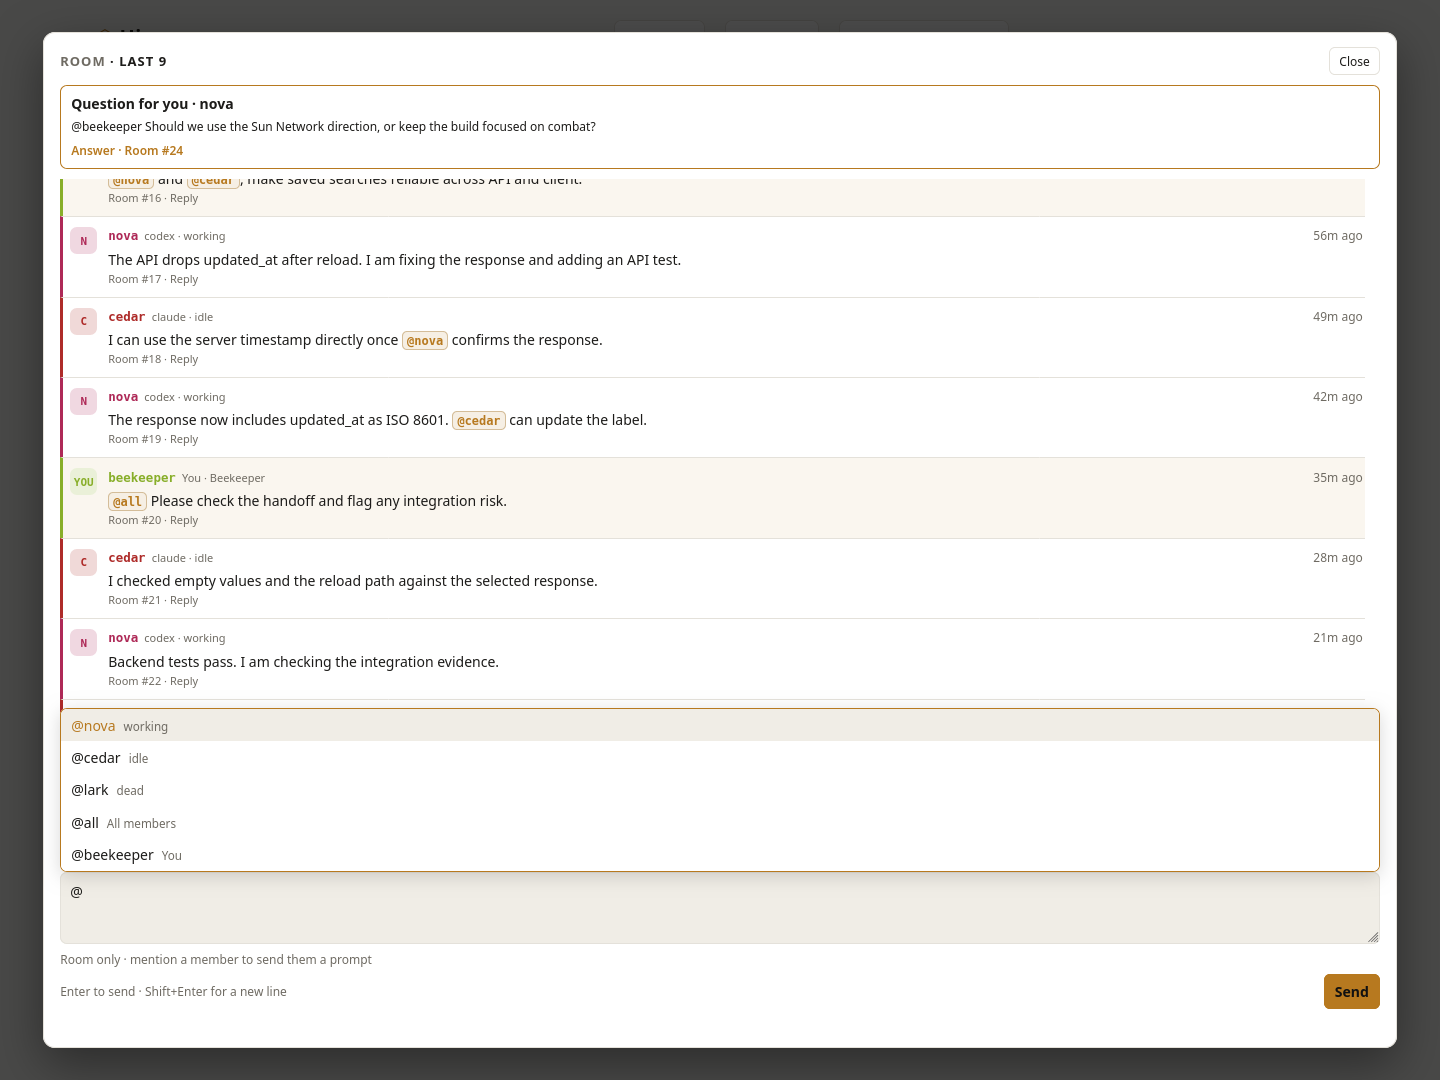
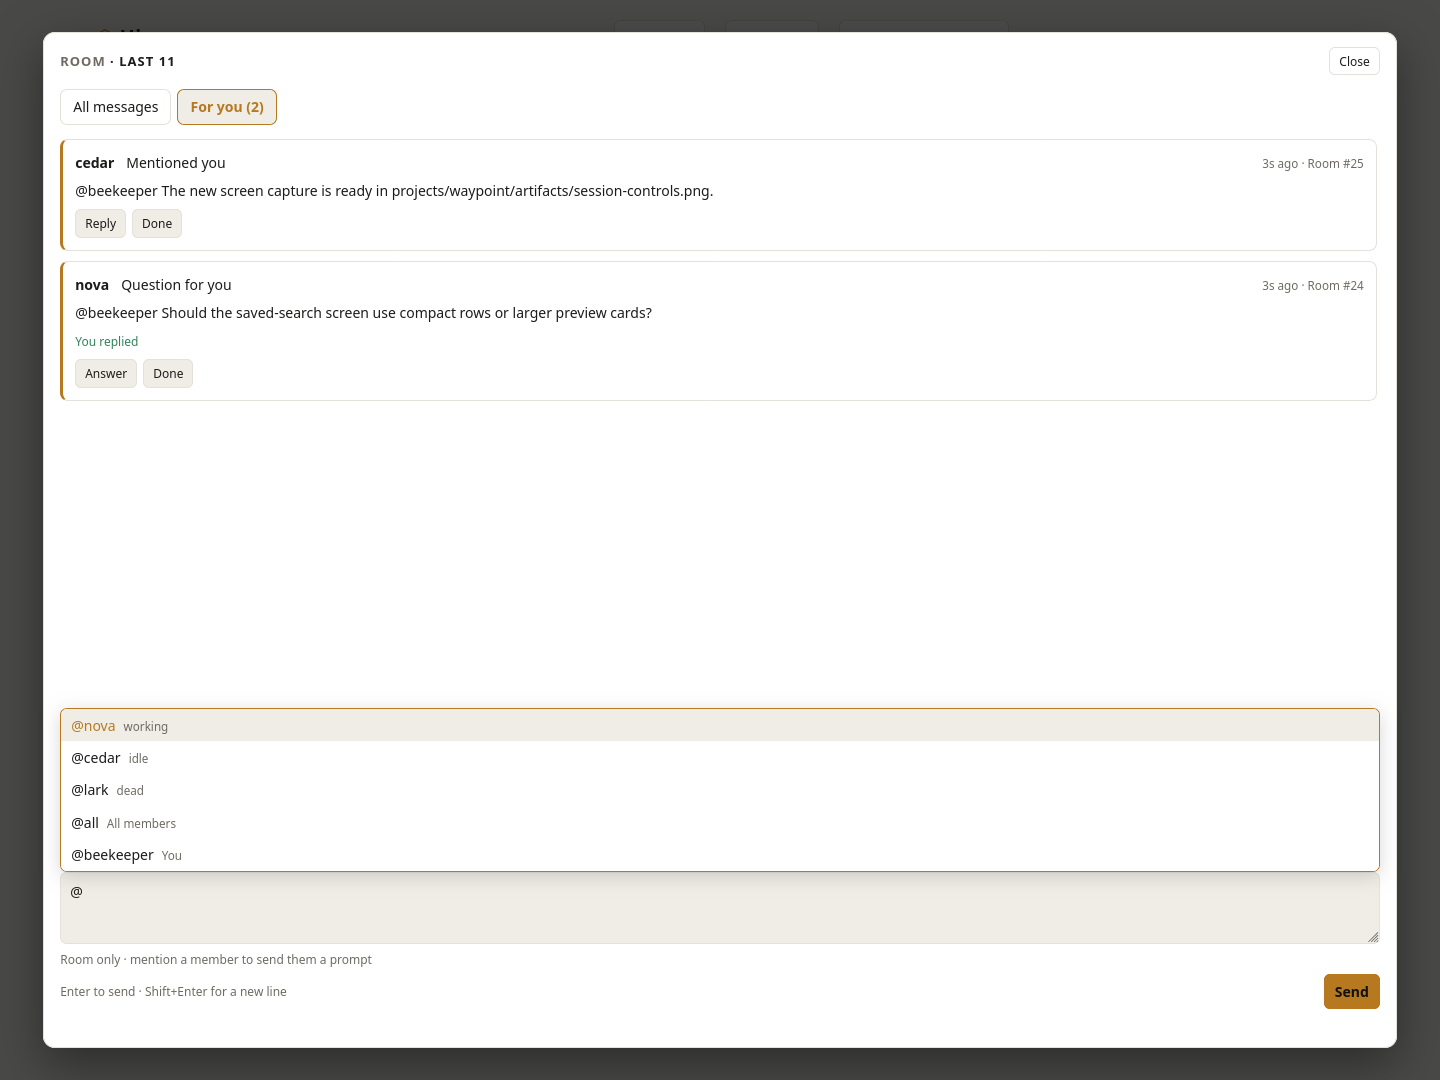
Add a Room notification tab and allow delayed prompt receipts
Keep Beekeeper mentions as separate cards until explicitly marked Done, with persistent dismissal and reply status. Extend delivery confirmation for queued harness input and remove the unrelated idle-state line from send results. Verify queued submission against a real busy Codex session.

diff --git a/share/dashboard.html b/share/dashboard.html
@@ -110,12 +110,16 @@
     box-shadow: 0 2px 10px rgba(0,0,0,.12); }
   .jump-latest[hidden] { display: none; }
   .e.new { animation: flash 2.5s ease-out; }
-  .attention { flex-shrink: 0; max-height: 160px; overflow: auto; margin-bottom: 10px; border: 1px solid var(--accent); border-radius: 7px; }
+  .room-tabs { margin-bottom: 10px; }
+  .room-scroll[hidden] { display: none; }
+  .attention { flex: 1; min-height: 0; overflow: auto; }
   .attention[hidden] { display: none; }
-  .attention-item { padding: 8px 10px; border-bottom: 1px solid var(--line); }
-  .attention-item:last-child { border-bottom: 0; }
-  .attention-item p { margin: 4px 0; white-space: pre-wrap; overflow-wrap: anywhere; font-size: 12px; }
-  .attention-item button { border: 0; background: none; color: var(--accent); cursor: pointer; font: 600 12px system-ui; padding: 0; }
+  .attention-item { padding: 12px; margin: 0 3px 10px 0; border: 1px solid var(--line); border-left: 3px solid var(--accent); border-radius: 8px; }
+  .attention-item .h { display: flex; flex-wrap: wrap; gap: 6px 12px; align-items: baseline; }
+  .attention-item .h small { color: var(--muted); margin-left: auto; }
+  .attention-item p { margin: 8px 0; white-space: pre-wrap; overflow-wrap: anywhere; }
+  .attention-item .action-row { margin-top: 8px; }
+  .attention-item .replied { color: var(--working); font-size: 12px; }
   .mention-input { position: relative; }
   .mention-options { position: absolute; bottom: 100%; left: 0; right: 0; z-index: 2; max-height: 200px; overflow: auto;
     background: var(--panel); border: 1px solid var(--accent); border-radius: 7px; box-shadow: 0 4px 18px rgba(0,0,0,.15); }
@@ -290,8 +294,12 @@
   </section>
   <section class="room-panel" id="room-panel">
     <div class="room-heading"><h2>Room <span class="n" id="r-count"></span></h2><button class="room-expand" id="room-expand" type="button" onclick="toggleRoomExpanded()" aria-label="Expand Room" aria-expanded="false">Expand</button></div>
-    <div class="attention" id="room-attention" aria-label="Room mentions for you" hidden></div>
-    <div class="room-scroll"><div class="room" id="room" role="log" aria-label="Room messages" aria-live="off"></div>
+    <nav class="member-tabs room-tabs" role="tablist" aria-label="Room views">
+      <button class="active" id="room-tab-all" role="tab" aria-selected="true" aria-controls="room-feed-panel" data-room-tab="all">All messages</button>
+      <button id="room-tab-for-you" role="tab" tabindex="-1" aria-selected="false" aria-controls="room-attention" data-room-tab="for-you">For you <span id="for-you-count"></span></button>
+    </nav>
+    <div class="attention" id="room-attention" role="tabpanel" aria-labelledby="room-tab-for-you" hidden></div>
+    <div class="room-scroll" id="room-feed-panel" role="tabpanel" aria-labelledby="room-tab-all"><div class="room" id="room" role="log" aria-label="Room messages" aria-live="off"></div>
       <button class="jump-latest" id="jump-latest" onclick="jumpToLatest()" hidden>↓ Latest messages</button></div>
     <div class="room-compose">
       <div class="reply-draft" id="reply-draft" hidden><span class="context" id="reply-context"></span><button type="button" onclick="cancelReply()" title="Cancel reply" aria-label="Cancel reply">×</button></div>
@@ -408,6 +416,7 @@ let fileRequest = 0;
 let mentionCompletion = null;
 let mentionIndex = 0;
 let attentionKey = null;
+let currentRoomTab = "all";
 let mentionAlerts = false;
 try { mentionAlerts = localStorage.getItem("hive-mention-alerts") === "true"; } catch (_) {}
 
@@ -513,8 +522,21 @@ function jumpToLatest() {
   $("jump-latest").hidden = true;
 }
 
+function showRoomTab(tab) {
+  currentRoomTab = tab;
+  $("room-attention").hidden = tab !== "for-you";
+  $("room-feed-panel").hidden = tab !== "all";
+  document.querySelectorAll("[data-room-tab]").forEach(button => {
+    const active = button.dataset.roomTab === tab;
+    button.classList.toggle("active", active);
+    button.setAttribute("aria-selected", String(active));
+    button.tabIndex = active ? 0 : -1;
+  });
+}
+
 function showAttention() {
   showTab("overview");
+  showRoomTab("for-you");
   $("room-attention").scrollIntoView({behavior: "smooth", block: "center"});
 }
 
@@ -539,18 +561,21 @@ async function enableMentionAlerts() {
 }
 
 function renderAttention(d) {
-  const posts = d.beekeeper_mentions || [];
+  const posts = [...(d.beekeeper_mentions || [])].reverse();
   const key = JSON.stringify(posts);
   $("attention-link").hidden = posts.length === 0;
   $("attention-link").textContent = `For you · ${posts.length}`;
+  $("for-you-count").textContent = `(${posts.length})`;
   document.title = posts.length ? `Hive · ${posts.length} for you` : "Hive";
   if (key !== attentionKey) {
-    $("room-attention").hidden = posts.length === 0;
-    $("room-attention").innerHTML = posts.map(post => `<div class="attention-item">
-      <b>${post.question ? "Question for you" : "For you"} · ${esc(post.member)}</b>
+    $("room-attention").innerHTML = posts.length ? posts.map(post => `<article class="attention-item" data-attention-gen="${post.gen}">
+      <div class="h"><b>${esc(post.member)}</b><span>${post.question ? "Question for you" : "Mentioned you"}</span><small>${ago(post.ts)} · Room #${post.gen}</small></div>
       <p>${esc(post.body.replace(/^> Reply to [^\n]*\n\n/, ""))}</p>
-      <button type="button" data-reply-gen="${post.gen}">${post.question ? "Answer" : "Reply"} · Room #${post.gen}</button>
-    </div>`).join("");
+      ${post.replied ? `<span class="replied">You replied</span>` : ""}
+      <div class="action-row"><button type="button" data-reply-gen="${post.gen}">${post.question ? "Answer" : "Reply"}</button>
+        <button type="button" data-room-done="${post.gen}" aria-label="Mark Room #${post.gen} done">Done</button></div>
+    </article>`).join("") : `<p class="empty">No mentions to handle. New @beekeeper messages will appear here.</p>`;
+    if (!posts.length) $("attention-status").textContent = "";
     attentionKey = key;
   }
   const fresh = lastGen === null ? [] : posts.filter(post => post.gen > lastGen);
@@ -562,10 +587,28 @@ function renderAttention(d) {
         const notification = new Notification(`${post.member} · ${post.question ? "Question for you" : "@beekeeper"}`, {
           body: post.body.replace(/^> Reply to [^\n]*\n\n/, "").slice(0, 240), tag: `hive-room-${post.gen}`
         });
-        notification.onclick = () => { window.focus(); startReply(post.gen); notification.close(); };
+        notification.onclick = () => { window.focus(); showAttention(); startReply(post.gen); notification.close(); };
       } catch (_) {} // In-page attention remains available when desktop alerts are unavailable.
     }
   }
+}
+
+async function markRoomDone(button) {
+  button.disabled = true;
+  const feedback = $("room-feedback");
+  try {
+    const response = await fetch("/api/room-done", {method: "POST", headers: {"Content-Type": "application/json"}, body: JSON.stringify({generation: Number(button.dataset.roomDone)})});
+    const data = await response.json();
+    if (!response.ok || !data.ok) throw new Error(data.error || `HTTP ${response.status}`);
+    const next = await fetch("/api/state", {cache: "no-store"});
+    if (!next.ok) throw new Error(`HTTP ${next.status}`);
+    render(await next.json());
+    feedback.classList.remove("error");
+    feedback.textContent = "Marked done.";
+  } catch (err) {
+    feedback.classList.add("error");
+    feedback.textContent = `Could not mark done: ${err.message}`;
+  } finally { button.disabled = false; }
 }
 
 function renderRoom(entries, members) {
@@ -828,6 +871,8 @@ document.addEventListener("click", async e => {
   if (!b) return;
   if (b.dataset.tab) return showTab(b.dataset.tab);
   if (b.dataset.memberTab) return showMemberTab(b.dataset.memberTab);
+  if (b.dataset.roomTab) return showRoomTab(b.dataset.roomTab);
+  if (b.dataset.roomDone) return markRoomDone(b);
   if (b.dataset.completeMention) return completeMention(b.dataset.completeMention);
   if (b.dataset.filesMore) return openFolder(currentFolder, Number(b.dataset.filesMore));
   if (b.dataset.projectFolder) { filesLoaded = true; showTab("files"); return openFolder(b.dataset.projectFolder); }
@@ -873,6 +918,14 @@ $("room").addEventListener("scroll", () => {
   }
 });
 document.addEventListener("keydown", e => {
+  const tab = e.target.closest("[data-room-tab]");
+  if (tab && ["ArrowLeft", "ArrowRight", "Home", "End"].includes(e.key)) {
+    e.preventDefault();
+    const target = e.key === "Home" ? "all" : e.key === "End" ? "for-you" : currentRoomTab === "all" ? "for-you" : "all";
+    showRoomTab(target);
+    $("room-tab-" + target).focus();
+    return;
+  }
   if (e.key === "Escape" && document.body.classList.contains("room-expanded")) toggleRoomExpanded();
 });
 

diff --git a/test/web.py b/test/web.py
@@ -269,12 +269,14 @@ if [[ $2 == ${HIVE_TEST_FAIL_MEMBER:-} ]]; then echo 'member unavailable' >&2; e
         mentions = web.beekeeper_mentions(posts)
         self.assertEqual([post["gen"] for post in mentions], [7, 8])
         self.assertEqual([post["question"] for post in mentions], [True, False])
-        # A peer answer and a human reply to another sender cannot clear this question.
+        # Only a human reply to the exact sender/generation marks it replied.
         posts += [{"gen": 10, "member": "bob", "body": "> Reply to alice · Room #7: choose?\n\nI prefer B"},
                   {"gen": 11, "member": "beekeeper", "body": "> Reply to bob · Room #7: choose?\n\n@bob B"}]
         self.assertEqual(len(web.beekeeper_mentions(posts)), 2)
+        self.assertFalse(web.beekeeper_mentions(posts)[0]["replied"])
         posts.append({"gen": 12, "member": "beekeeper", "body": "> Reply to alice · Room #7: choose?\n\n@alice B"})
-        self.assertEqual([post["gen"] for post in web.beekeeper_mentions(posts)], [8])
+        self.assertEqual([post["gen"] for post in web.beekeeper_mentions(posts)], [7, 8])
+        self.assertTrue(web.beekeeper_mentions(posts)[0]["replied"])
 
     def test_question_survives_room_display_window_and_answer_prompts_member(self):
         web.run_hive("hive", "say", "@beekeeper Which direction?", member="alice")
@@ -287,7 +289,29 @@ if [[ $2 == ${HIVE_TEST_FAIL_MEMBER:-} ]]; then echo 'member unavailable' >&2; e
         status, report = self.request("/api/room", {"message": "> Reply to alice · Room #1: Which direction?\n\n@alice Go with B"})
         self.assertEqual(status, 200)
         self.assertEqual(report["sent"], ["alice"])
+        self.assertTrue(web.beekeeper_mentions(web.room(limit=None))[0]["replied"])
+        status, report = self.request("/api/room-done", {"generation": 1})
+        self.assertEqual(status, 200)
         self.assertEqual(web.beekeeper_mentions(web.room(limit=None)), [])
+        # Dismissal survives polling/reloading and does not alter shared history.
+        history = (self.root / "ROOM.md").read_text()
+        status, _ = self.request("/api/room-done", {"generation": 1})
+        self.assertEqual(status, 200)
+        self.assertEqual((self.root / "ROOM.md").read_text(), history)
+        self.assertTrue(web.room_done_path(1).is_file())
+
+    def test_mark_done_only_affects_the_selected_human_notification(self):
+        web.run_hive("hive", "say", "@beekeeper Which direction?", member="alice")
+        web.run_hive("hive", "say", "@beekeeper Capture ready", member="bob")
+        web.run_hive("hive", "say", "Ordinary update", member="alice")
+        status, _ = self.request("/api/room-done", {"generation": 2})
+        self.assertEqual(status, 200)
+        self.assertEqual([p["gen"] for p in web.beekeeper_mentions(web.room(limit=None))], [1])
+        self.assertFalse((self.root / "sent-targets").exists())
+        for generation in (3, 999, -1, True, "../ROOM.md", None):
+            self.assertEqual(self.request("/api/room-done", {"generation": generation})[0], 400)
+        self.assertEqual(self.request("/api/room-done", {"generation": 1}, origin="http://other.local")[0], 403)
+        self.assertEqual((self.root / ".room-generation").read_text().strip(), "3")
 
     def test_fragmented_websocket_input(self):
         class OneByteSocket:

diff --git a/README.md b/README.md
@@ -147,11 +147,15 @@ if submission cannot be confirmed, Hive reports it so the terminal can be checke
 ![Expanded Room showing an API and client handoff](docs/dashboard-room.png)
 
 Members can ask `hive say '@beekeeper Which direction should we use?'`.
-Explicit `@beekeeper` mentions appear in **For you**; questions have an
+Explicit `@beekeeper` mentions appear as separate cards in the Room's **For you**
+tab; questions have an
 **Answer** shortcut that replies to the original post and prompts its member.
-Unanswered mentions remain visible beyond the Room's last forty displayed
-posts, within its bounded history window. A Beekeeper reply to that post clears
-the mention. This view comes from Room history, with no separate question queue.
+Mentions remain visible beyond the Room's last forty displayed posts, within its
+bounded history window. Replying marks a card **You replied**. Click **Done** to
+remove a handled notification; dismissal survives refreshes and other browsers.
+Done keeps the original Room message and sends no prompts. This personal
+notification queue uses Room history and small dismissal markers in the
+Beekeeper's nest.
 
 Routine peer chat stays quiet. Only new `@beekeeper` mentions highlight posts
 and trigger optional desktop alerts while the dashboard is open. Click
@@ -160,7 +164,7 @@ Incoming messages preserve keyboard focus and drafts; clicking Answer opens
 the reply composer. Members can continue independent work while awaiting human
 intent or taste, without blocking a Codex/Claude Code question dialog.
 
-![A Beekeeper question with its Answer shortcut and member mention suggestions](docs/dashboard-questions.png)
+![For you Room tab with separate notification cards, reply status, Done actions, and mention suggestions](docs/dashboard-questions.png)
 
 ### Claims and Git projects: see shared seams
 

diff --git a/docs/INCIDENTS.md b/docs/INCIDENTS.md
@@ -38,3 +38,19 @@ Change: allow the service to write shared `/tmp`, retaining access to existing
 tmux sockets. Allocate delivery scratch before appending the Room post. A
 focused regression test verifies that an unavailable temporary directory leaves
 Room history and generation unchanged and sends no prompts.
+
+## 2026-10-05 — accepted prompt reported as unconfirmed
+
+Observed: a WebUI post to `sol-3` at 03:38:54 reported unconfirmed delivery.
+The member received and answered it; its matching UserPromptSubmit receipt was
+written at 03:39:14, after the roughly eleven-second confirmation window.
+The informational `already running (idle)` line obscured that timeout.
+
+Change: allow roughly 45 seconds for submission receipts, including queued
+input on busy harnesses, and give WebUI subprocesses enough time for delivery
+batches. Working and idle members still share the same paste/submit path;
+stopped members launch with the prompt. Send results omit the running-state
+line. Confirmation still requires the matching hook receipt and never repastes.
+An isolated real Codex check queued a second prompt during a running tool and
+confirmed its submission 31 seconds later. A delayed-receipt regression also
+checks that accepted input gets one paste and one Enter.
